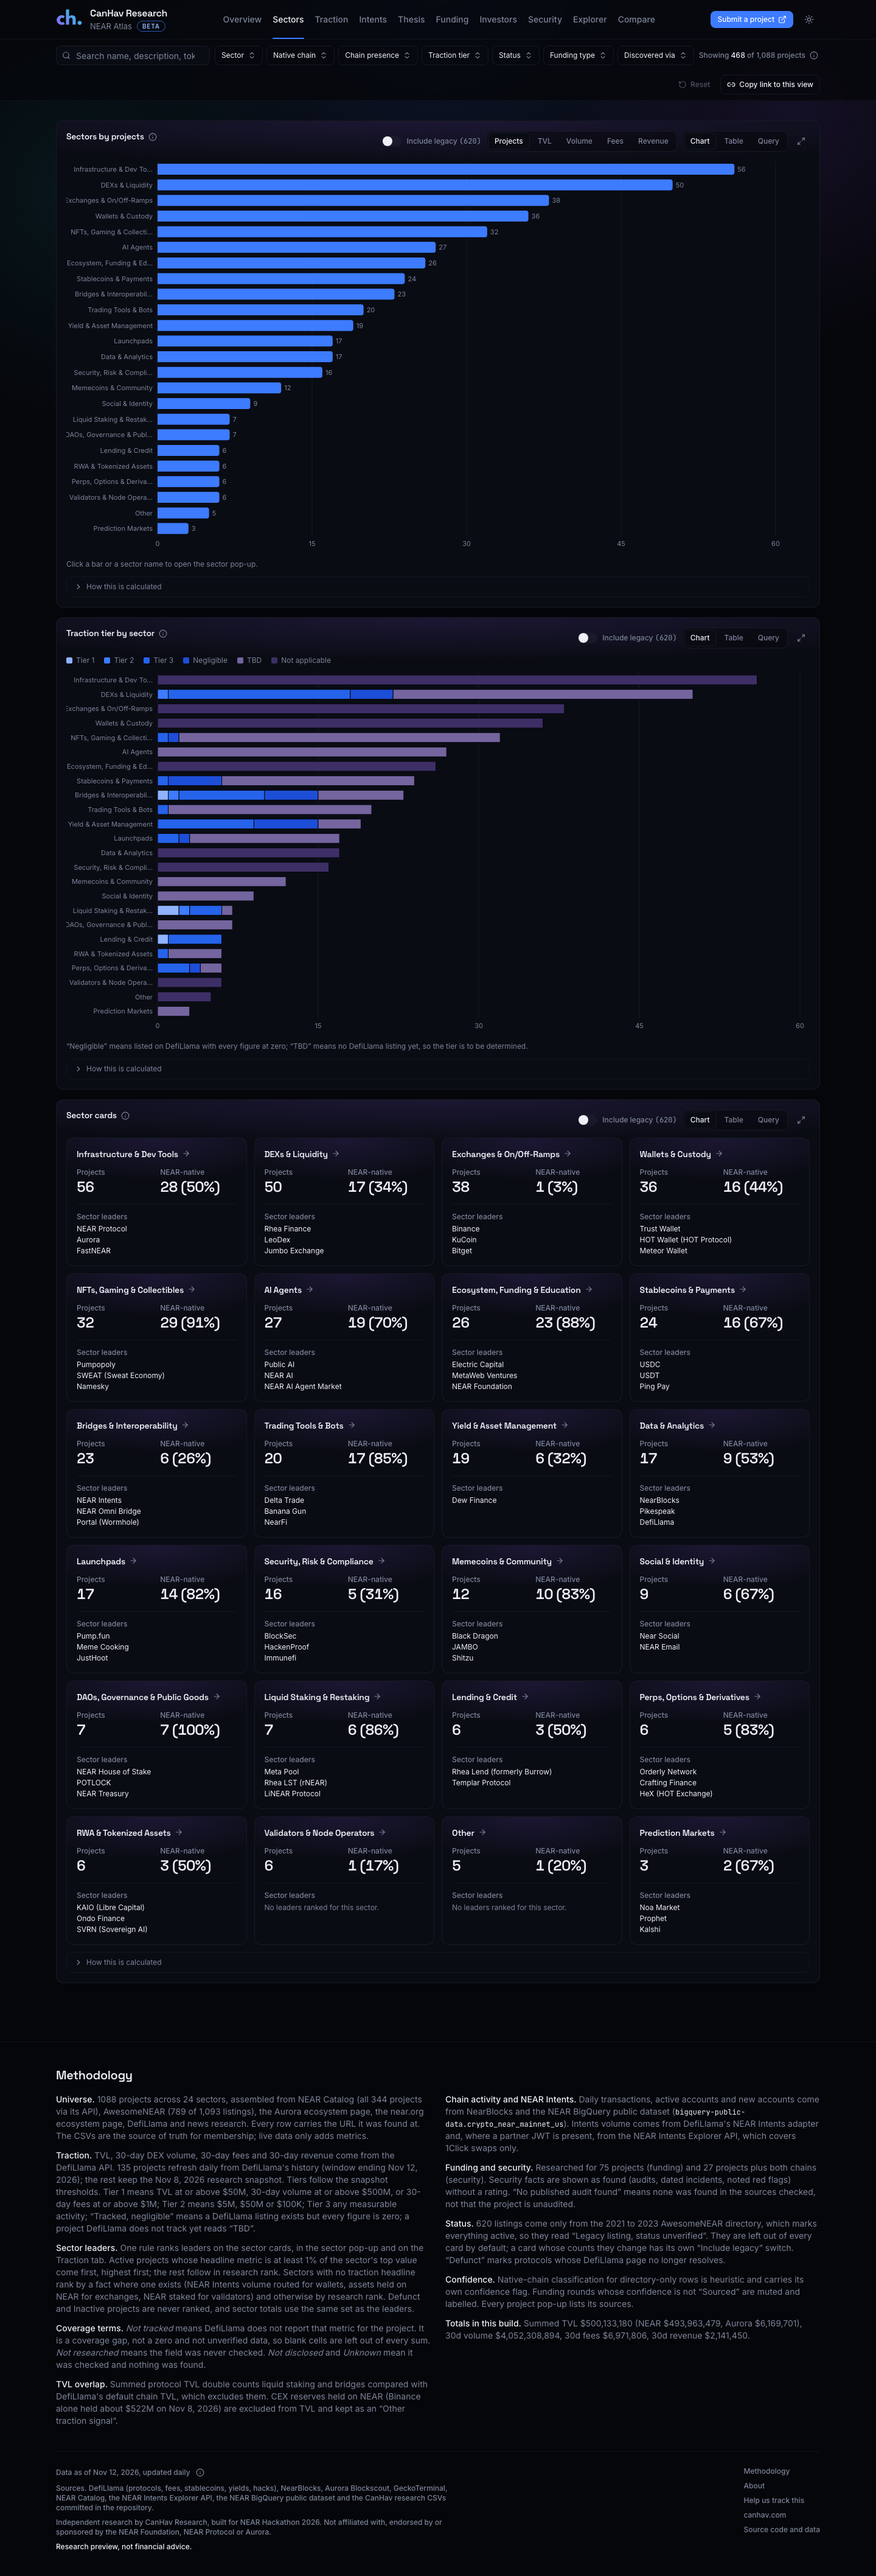
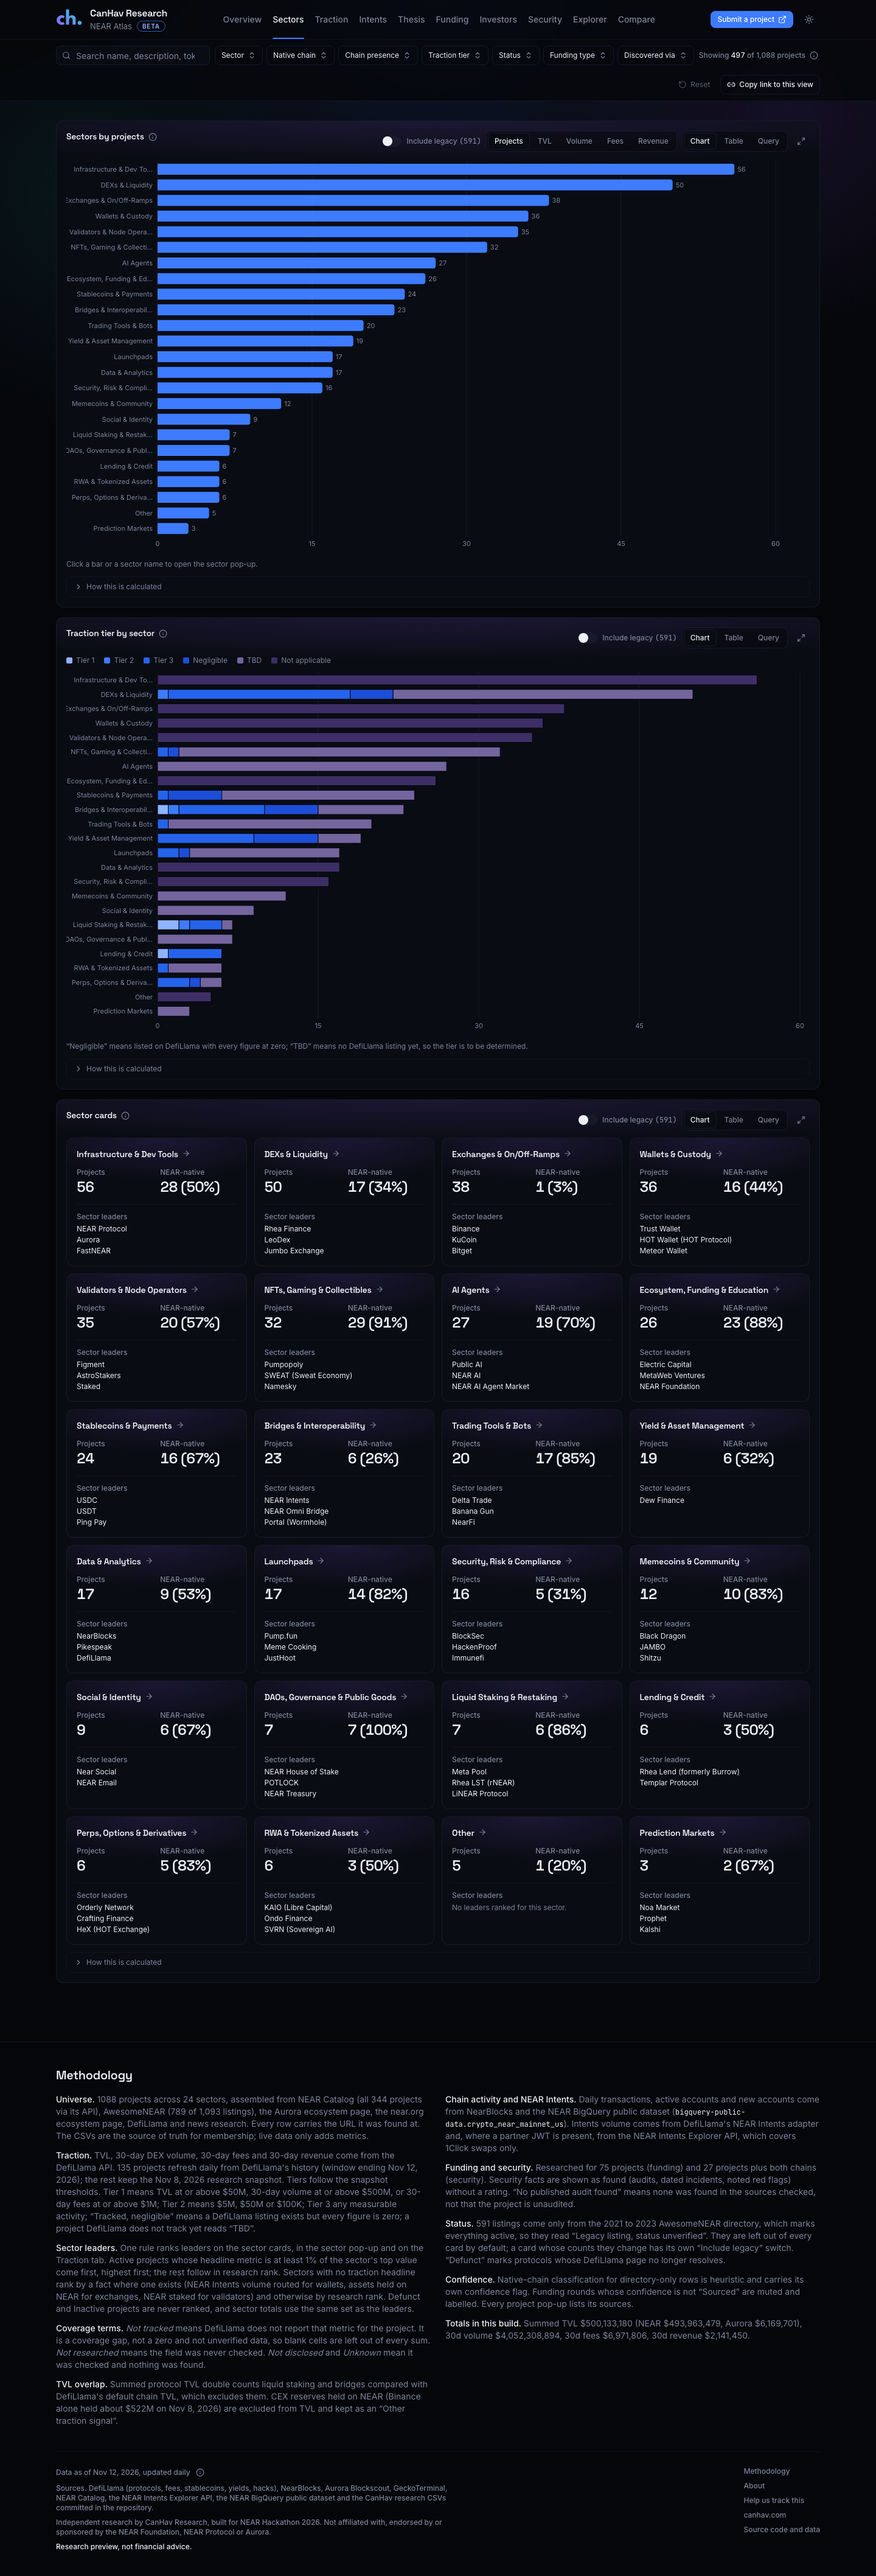
Validators: operators with a pool in the current validator set move from legacy listing to Mainnet, and the legacy count in Methodology is computed

diff --git a/src/components/layout/site-footer.tsx b/src/components/layout/site-footer.tsx
@@ -1,8 +1,11 @@
 import Link from "next/link";
 import { DataFreshness } from "@/components/atlas/data-freshness";
-import { meta } from "@/lib/data";
+import { meta, projects } from "@/lib/data";
 import { SIBLING_ATLAS_URL } from "@/lib/env";
 import { fmtUsdFull } from "@/lib/format";
+
+/** Directory-only listings whose status is still unverified (validators with a live pool were promoted on 2026-11-13). */
+const LEGACY_LISTINGS = projects.filter((p) => p.statusGroup === "Legacy listing").length;
 
 const LINK = "underline-offset-2 hover:text-ink-50 hover:underline focus-visible:outline-none focus-visible:ring-2 focus-visible:ring-electric-500/60";
 
@@ -62,7 +65,7 @@ export function SiteFooter() {
                 not that the project is unaudited.
               </p>
               <p>
-                <strong className="font-medium text-ink-50">Status.</strong> 620 listings come only from the 2021 to 2023 AwesomeNEAR directory, which marks everything active, so
+                <strong className="font-medium text-ink-50">Status.</strong> {LEGACY_LISTINGS.toLocaleString("en-US")} listings come only from the 2021 to 2023 AwesomeNEAR directory, which marks everything active, so
                 they read &ldquo;Legacy listing, status unverified&rdquo;. They are left out of every card by default; a card whose counts they change has its own &ldquo;Include legacy&rdquo; switch. &ldquo;Defunct&rdquo; marks protocols whose DefiLlama page no longer resolves.
               </p>
               <p>

diff --git a/src/components/atlas/legacy-switch.tsx b/src/components/atlas/legacy-switch.tsx
@@ -10,7 +10,7 @@ const LEGACY_COUNT = allProjects.filter((p) => p.statusGroup === LEGACY_GROUP).l
 export const LEGACY_HELP = `${LEGACY_COUNT.toLocaleString("en-US")} legacy listings come only from the 2021 to 2023 AwesomeNEAR directory, which marks every listing active, so their real status is unknown. None carries a TVL, volume, fee or revenue figure. They are left out by default; this switch brings them back into this card only.`;
 
 /**
- * "Include legacy (620)" for one card (src/lib/filters.ts, LEGACY_CARDS). It sits in the card's
+ * "Include legacy (591)" for one card (src/lib/filters.ts, LEGACY_CARDS). It sits in the card's
  * actions like the range control and changes that card and nothing else; the choice lives in the
  * `legacy` URL key. `label` names the card for assistive tech.
  */

diff --git a/src/lib/filters.ts b/src/lib/filters.ts
@@ -21,7 +21,7 @@ export const ALIGNS = ["date", "days"] as const;
 export type Align = (typeof ALIGNS)[number];
 
 /**
- * Legacy listings (status "Unknown (legacy 2021-23 listing)", 620 rows from the 2021 to 2023 AwesomeNEAR
+ * Legacy listings (status "Unknown (legacy 2021-23 listing)", 591 rows from the 2021 to 2023 AwesomeNEAR
  * directory) are hidden by default (owner, 2026-11-12). Each card whose numbers they change has its own
  * "Include legacy listings" switch; the `legacy` URL key lists the cards that include them
  * (`?legacy=kpi,sectors`). None of them carries a TVL, volume, fee or revenue figure, so only counts move.

diff --git a/docs/SECTOR-METRICS.md b/docs/SECTOR-METRICS.md
@@ -265,3 +265,4 @@ Decisions taken when the spec was built, and where the data said something diffe
 - **Launch windows.** These now end on the last day the receipts query covered, not on the last launch. Meme Cooking launched 0 tokens in the 30 days to Nov 12 (its last two were Oct 8 and Oct 12).
 - **Validators.** `scripts/fetch/validators.ts` reads NEAR RPC `validators`, with `data/validator-pools.csv` mapping pools to operators. Pools marked Verified No are left out until confirmed.
 - **Accounts not mapped, because ownership could not be confirmed.** Launchpad factories for Pump.fun, JustHoot, Nearly and Shards (`justhoot.near`, `nearly.near` and `shards.near` exist but have no contract). Market contracts for Noa Market and Prophet (`noa.near` and `prophet.near` exist without code). Namesky's contract (`namesky.near` has no code). HeX's contracts. Kalshi has no NEAR contract.
+- **Validators with a live pool are Mainnet.** The 29 operators with a verified pool in the current validator set (epoch 4967, NEAR RPC, Nov 13) were legacy directory listings, so the Validators card was empty by default. Their status in the research CSV is now Mainnet, with the pool named in Other Traction Signal, which leaves 591 legacy listings. The Validators leaders are Figment (51.9M NEAR), AstroStakers (33.3M) and Staked (21.3M).
